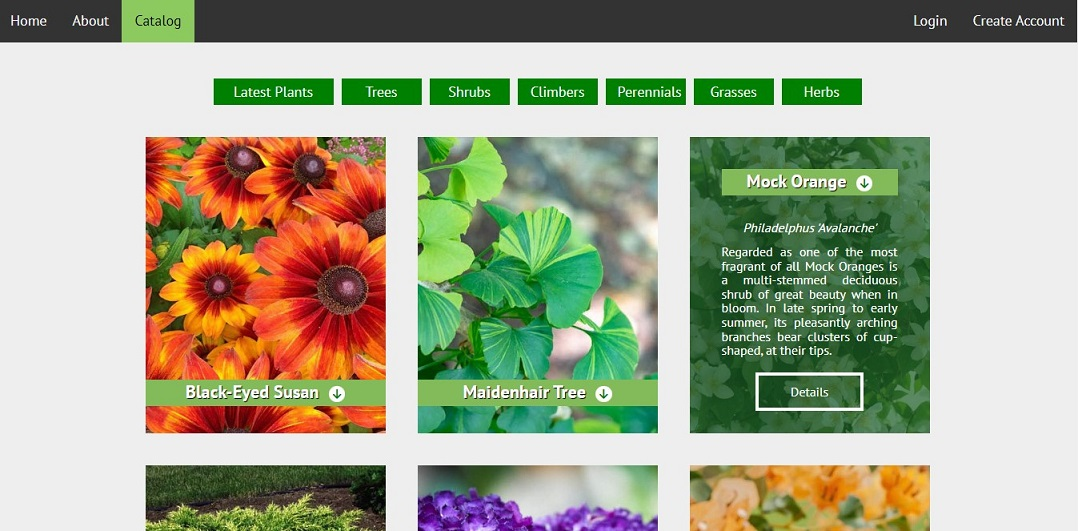
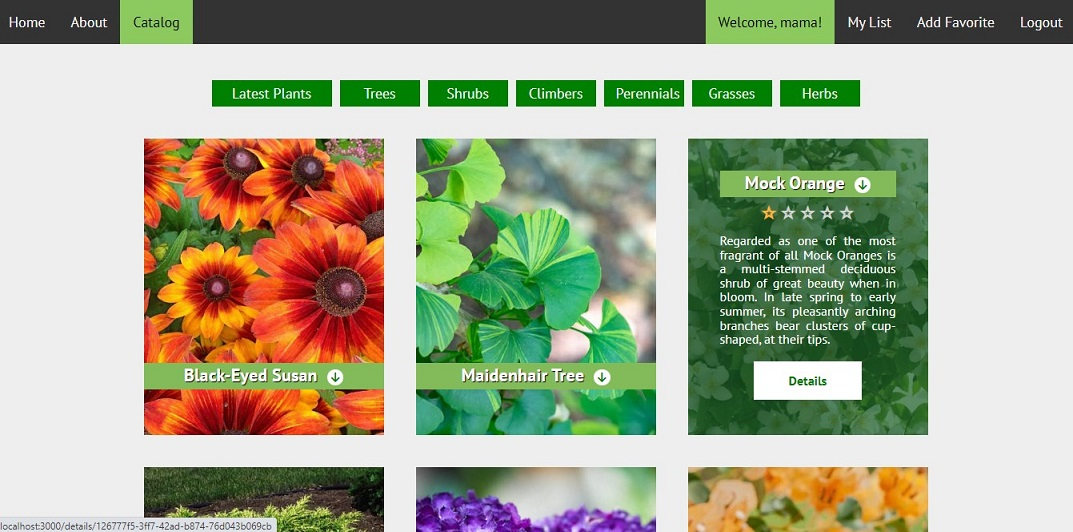
Change picture and repair OwnerPrivateRoute.

diff --git a/server/server.js b/server/server.js
@@ -1347,7 +1347,7 @@
                 "_createdOn": 161719429547,
             },
             "1840a313-225c-416a-817a-9954d4609f7c": {
-                "_ownerId": "35c62d76-8152-4626-8712-eeb96381bea8",
+                "_ownerId": "847ec027-f659-4086-8032-5173e2f9c93a",
                 "plant-name": "Maidenhair Tree",
                 "latin-name": "Ginkgo biloba",
                 "imgUrl": "https://www.gardenia.net/storage/app/public/uploads/images/detail/Ginkgo%20Majestic%20ButterflyOptimized.webp",

diff --git a/src/App.js b/src/App.js
@@ -41,10 +41,7 @@ export default function App() {
                 <Route element={<UserPrivateRoute />}>
                   <Route path='/logout' element={<Logout />} />
 
-                  <Route path='/create' element={
-                    <OwnerPrivateRoute>
-                      <Create />
-                    </OwnerPrivateRoute>} />
+                  <Route path='/create' element={<Create />} />
 
                   <Route path='/edit/:plantId' element={
                     <OwnerPrivateRoute>
